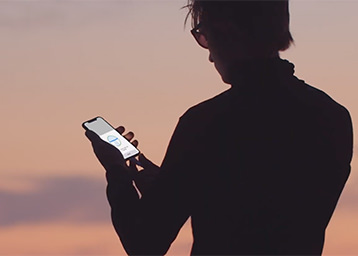
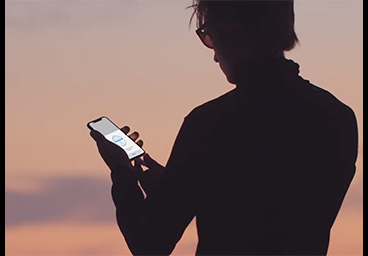
added anim

diff --git a/src/templates/Portfolio/index.js b/src/templates/Portfolio/index.js
@@ -513,12 +513,12 @@ const data = {
       ]
     },
     {
-      title: "Graphics, Animations, and Logos",
+      title: "Graphics and Logos",
       img: "graphics.jpg",
       year: "2012-2017",
       type: "promo",
       shortDesc:
-        "Website and Desktop / Mobile Application related Graphics and Animations",
+        "Website and Desktop / Mobile Application related Graphics and Designs",
       role: "Digital Graphic Artist",
       links: [{ title: "Visit Yubico.com", url: "https://www.yubico.com/" }],
       description:
@@ -561,6 +561,19 @@ const data = {
           thumbnail: "https://s15.postimg.cc/d7ic3kke3/equals_title.jpg"
         }
       ]
+    },
+    {
+      title: "Animations",
+      img: "animation.jpg",
+      year: "2020",
+      type: "promo",
+      shortDesc:
+        "Character and Product Animations",
+      bigImg: "yk-speak.gif",
+      role: "Animator",
+      links: [{ title: "Visit Yubico.com", url: "https://www.yubico.com/" }],
+      description:
+        "2D Animated characters and products.",
     }
   ],
   engProjects: [
